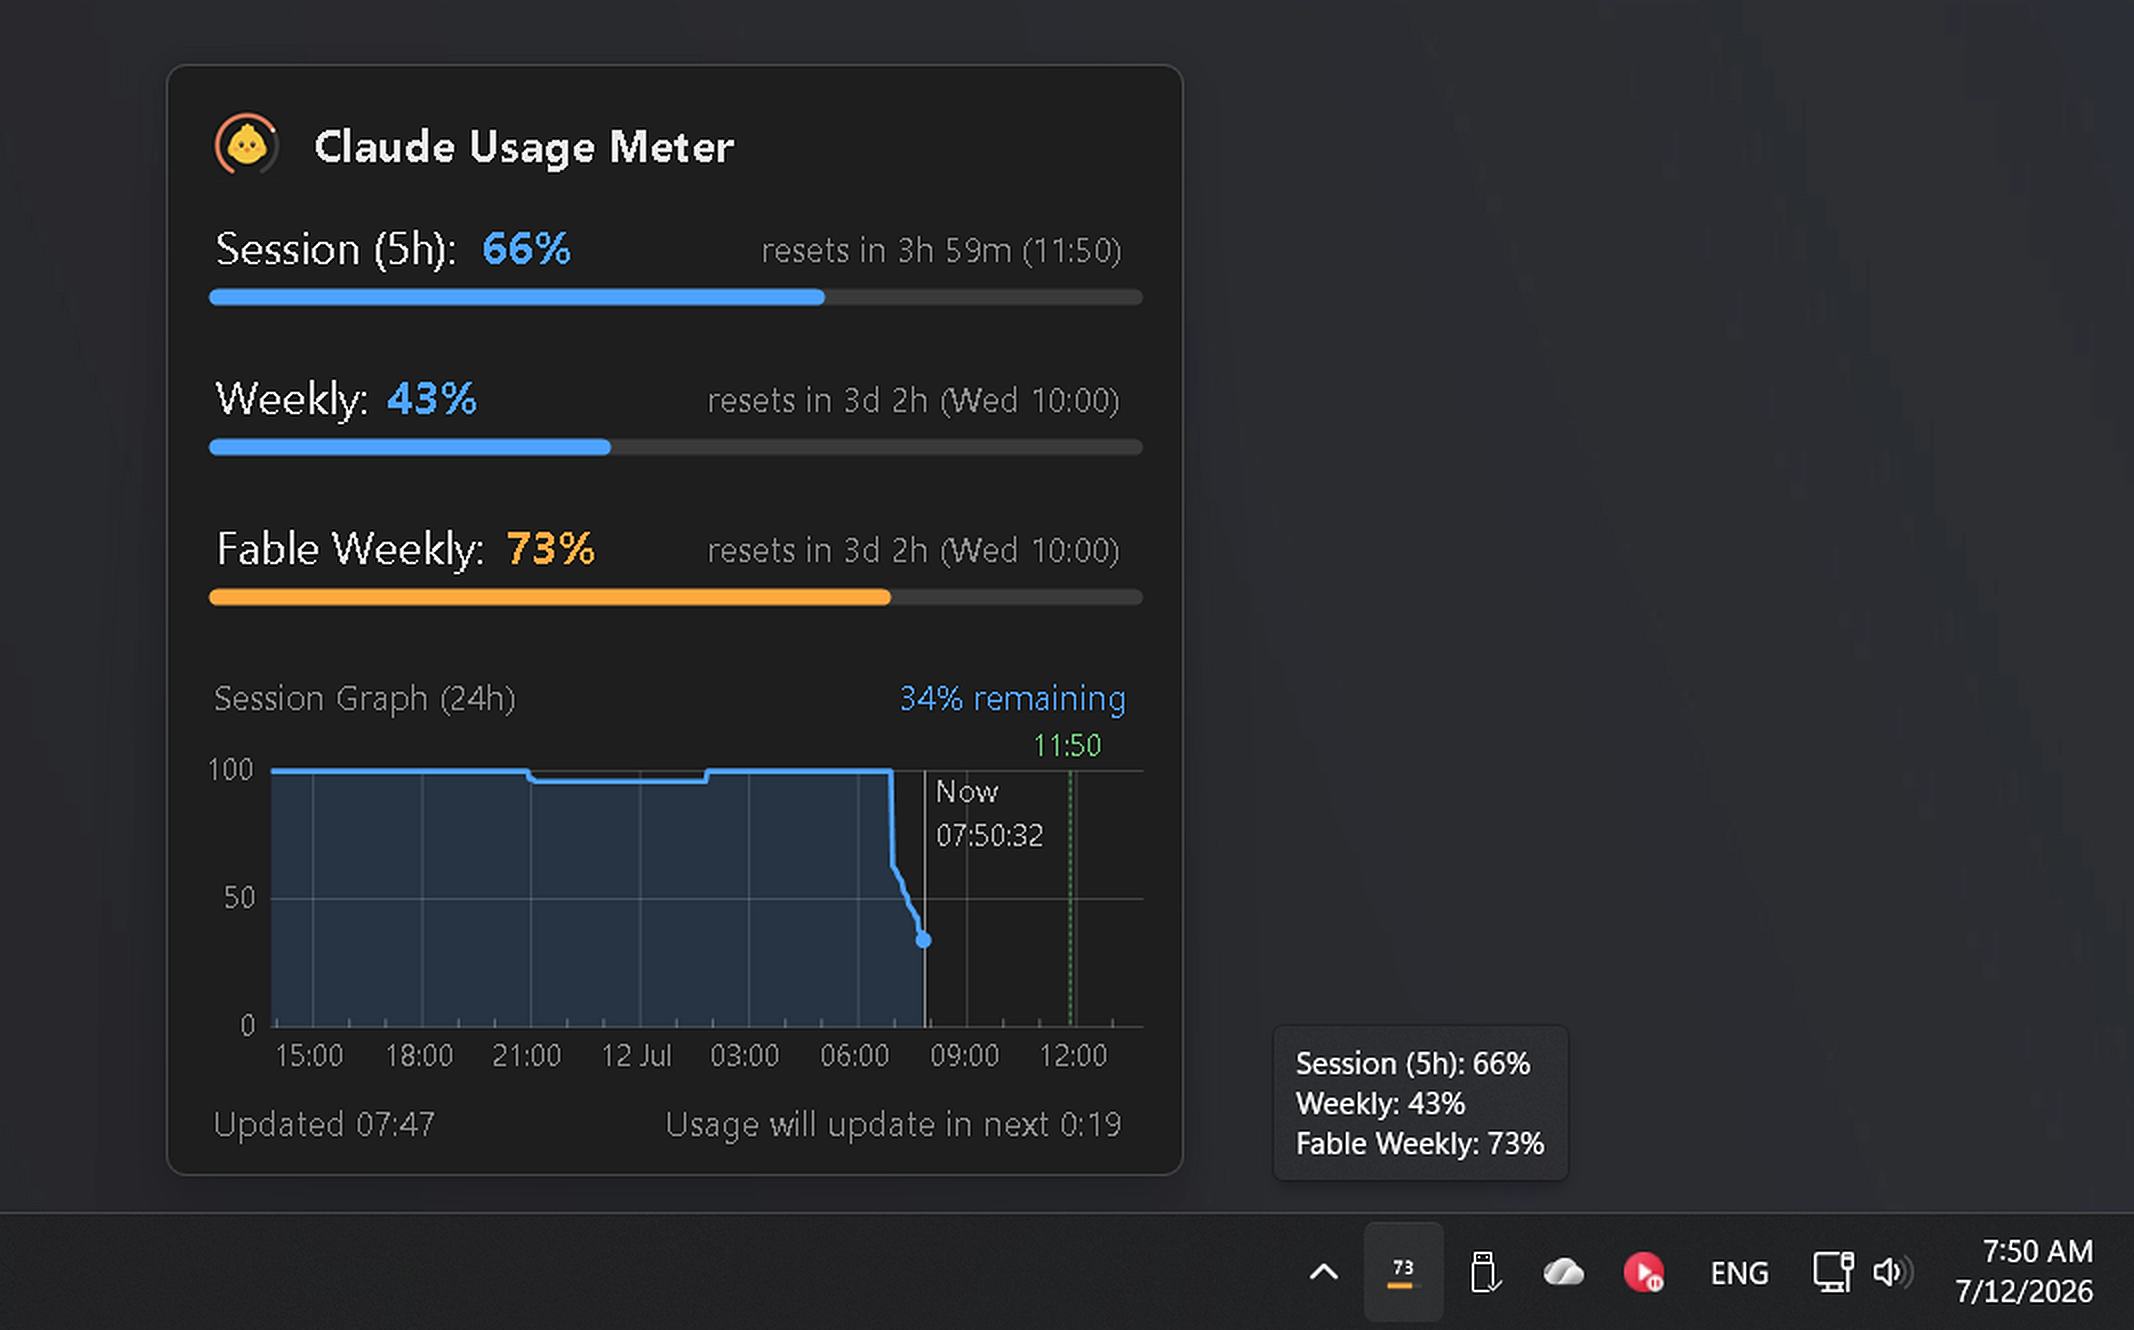
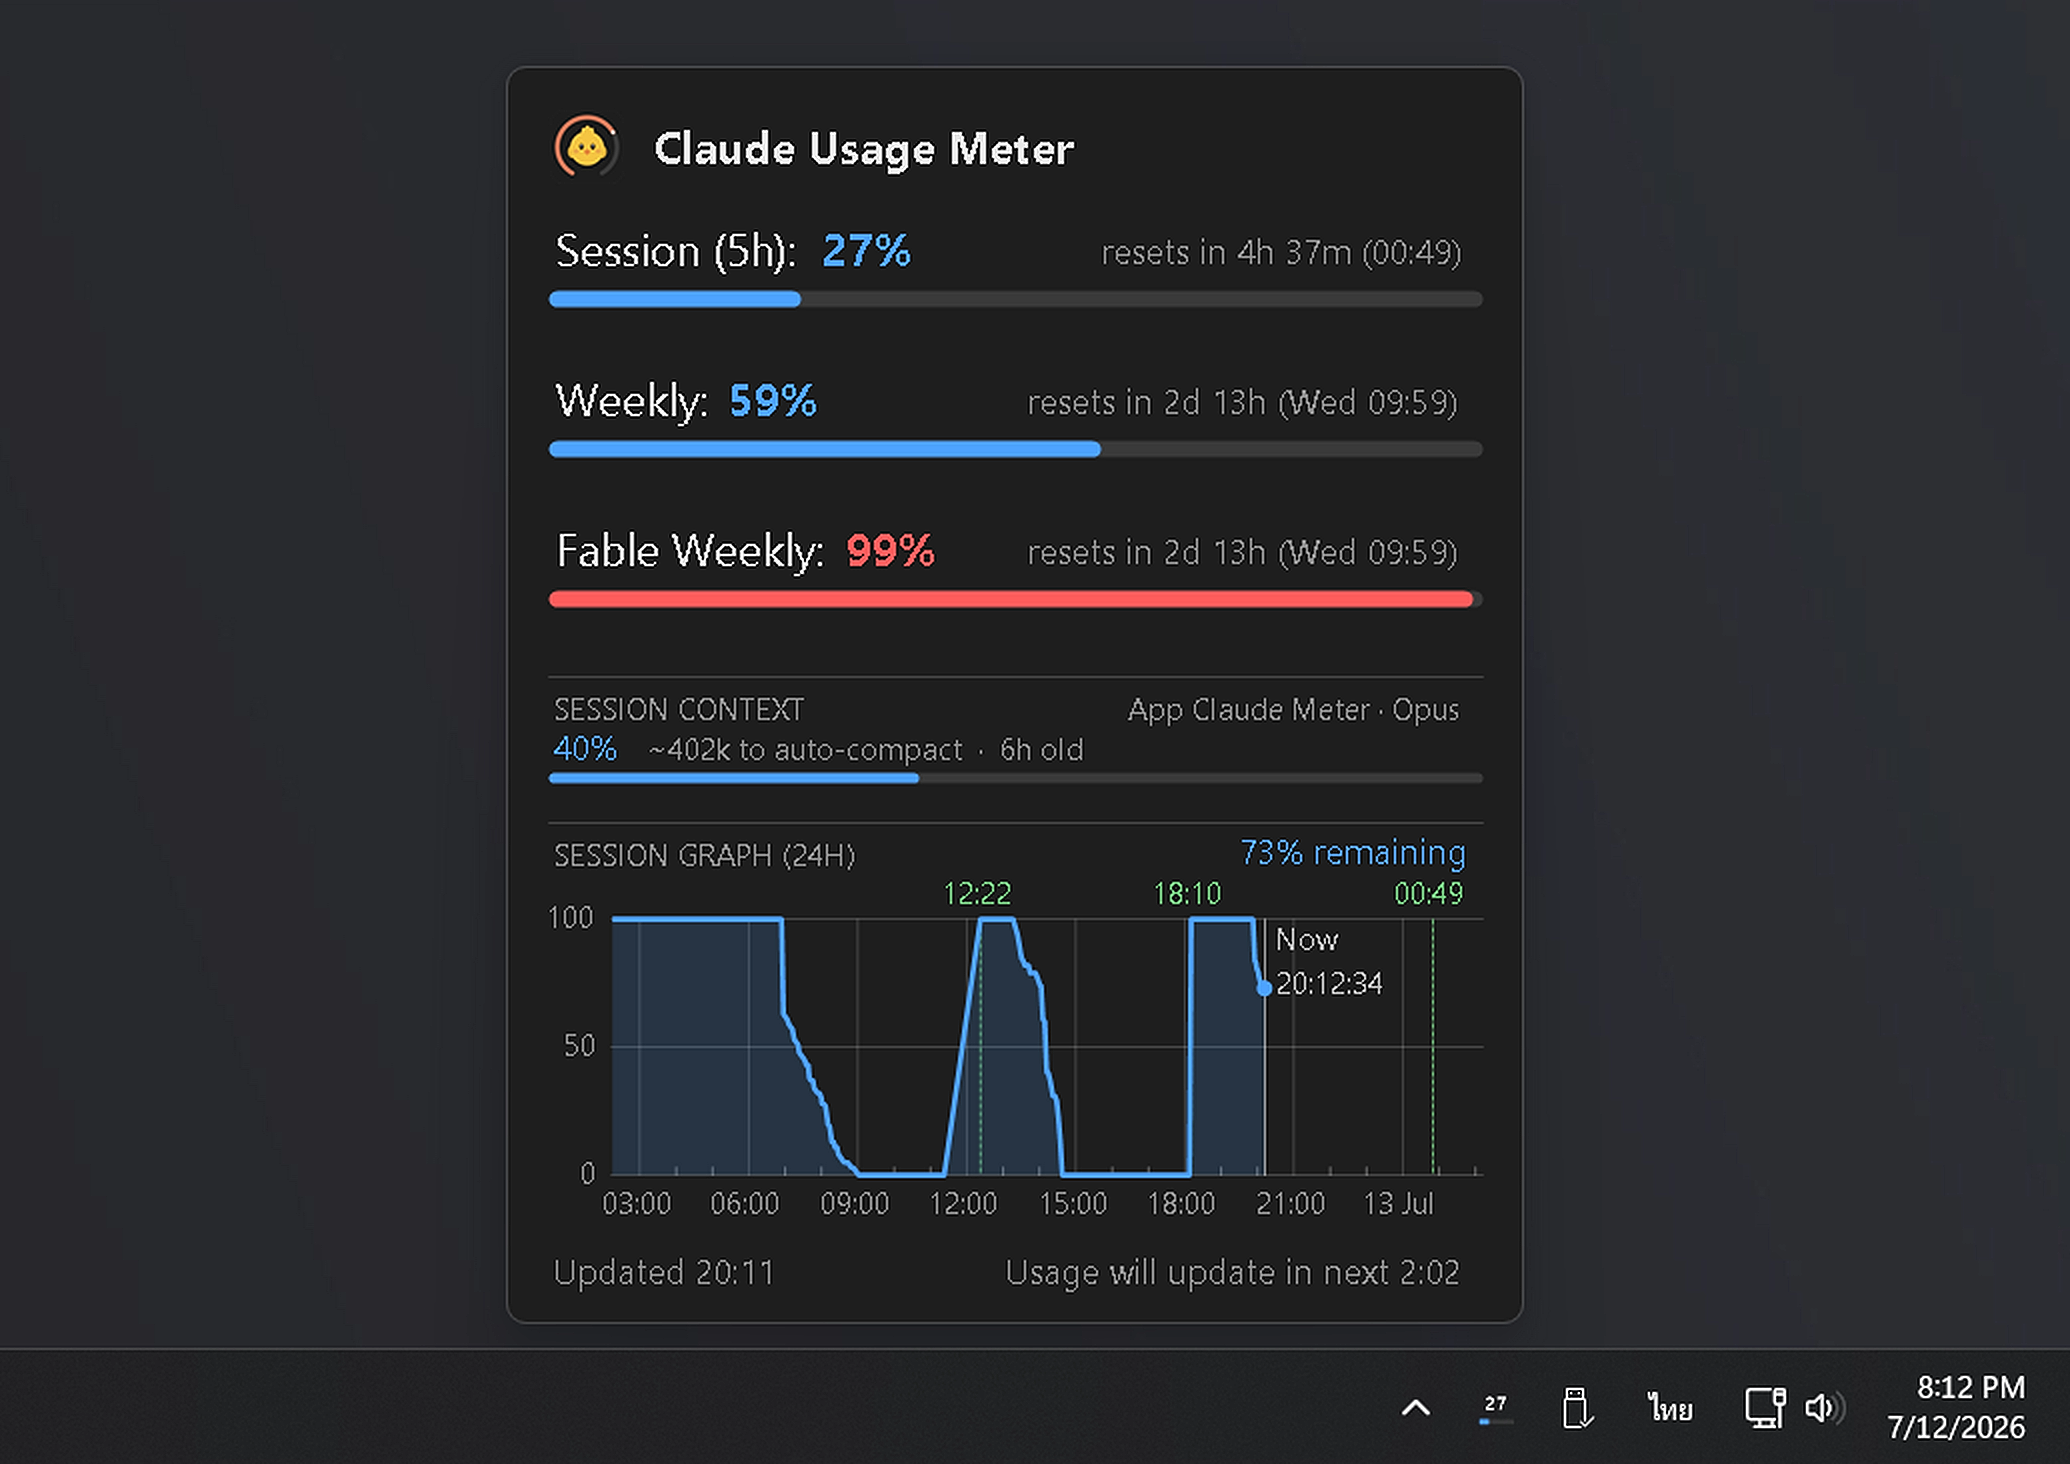
Prepare v1.4.0 release: version bump, changelog, screenshot, notes
- csproj Version 1.3.0 -> 1.4.0 (drives the in-app update check)
- CHANGELOG: [Unreleased] -> [1.4.0] - 2026-07-12, plus the tray-icon pin
  behavior in Changed
- docs/screenshot.png: refreshed and upscaled (2070x1464), showing the tray
  icon following the Session pin
- docs/RELEASE_NOTES_v1.4.0.md: new

Not yet tagged/published — zip build, push, and gh release remain.

diff --git a/docs/RELEASE_NOTES_v1.4.0.md b/docs/RELEASE_NOTES_v1.4.0.md
@@ -1,0 +1,29 @@
+# Claude Meter v1.4.0
+
+The reliability polish update.
+
+## Download
+
+**`ClaudeMeter-portable.zip`** (attached) — unzip and run `ClaudeMeter.exe`.
+No .NET installation needed. SmartScreen on first run: **More info → Run anyway**.
+
+## New
+
+- **Hotkey picker** — choose your combo (Ctrl+Alt+U default, plus Ctrl+Alt+C / Ctrl+Alt+M / Ctrl+Shift+U / Ctrl+Shift+M / Ctrl+U / Alt+U) or turn it Off. Handy when the default clashes with another app.
+
+## Improved
+
+- **Tray icon pinning** — choosing Session (5h) or Weekly in "Tray icon shows" now sticks to your choice. A maxed-out window (e.g. Fable Weekly at 99%) no longer forces the icon to show that instead. "Active limit (auto)" still warns at 90% so you don't miss a binding limit.
+
+## Fixed
+
+- "Start with Windows" opt-out now sticks instead of being silently re-enabled on every launch
+- After you re-login in Claude Code, the meter auto-recovers instead of getting stuck on "login expired"
+- The "Fix Claude login" button no longer breaks (or crashes) after changing the popup size
+- Blank or unrecognized hotkey values self-heal to the default (Ctrl+Alt+U); null values no longer crash at startup
+- Fixed duplicate "Extra usage" rows that could appear with older API response shapes
+- The usage endpoint's rate-limit backoff now honors Retry-After headers given as HTTP dates
+- The About dialog no longer leaks font handles when opened repeatedly
+- Old log files are now cleaned up daily while the app runs
+
+Full history in [CHANGELOG.md](../CHANGELOG.md).

diff --git a/CHANGELOG.md b/CHANGELOG.md
@@ -4,13 +4,17 @@ All notable changes to Claude Usage Meter for Windows are documented here.
 The format is based on [Keep a Changelog](https://keepachangelog.com/en/1.1.0/),
 and this project adheres to [Semantic Versioning](https://semver.org/).
 
-## [Unreleased]
+## [1.4.0] - 2026-07-12
 
 ### Changed
 - The Hotkey menu is now a picker: choose between Ctrl+Alt+U (default),
   Ctrl+Alt+C, Ctrl+Alt+M, Ctrl+Shift+U, Ctrl+Shift+M, Ctrl+U, Alt+U or Off —
   handy when the default combo clashes with another app (note: single-modifier
   combos like Ctrl+U take that key over system-wide, e.g. underline in editors)
+- Tray icon now honors an explicit "Tray icon shows" pin: choosing Session (5h)
+  or Weekly always shows that window, instead of a near-maxed window
+  (e.g. Fable Weekly at 99%) taking over the icon. "Active limit (auto)" still
+  switches to any window that reaches 90% so a binding limit isn't missed
 
 ### Fixed
 - "Start with Windows" is no longer silently re-enabled on every launch —